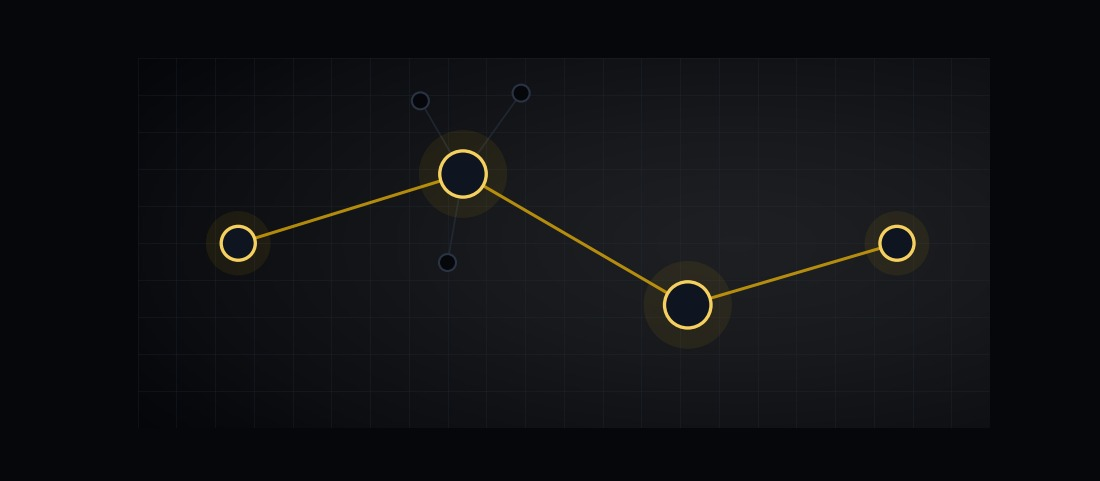
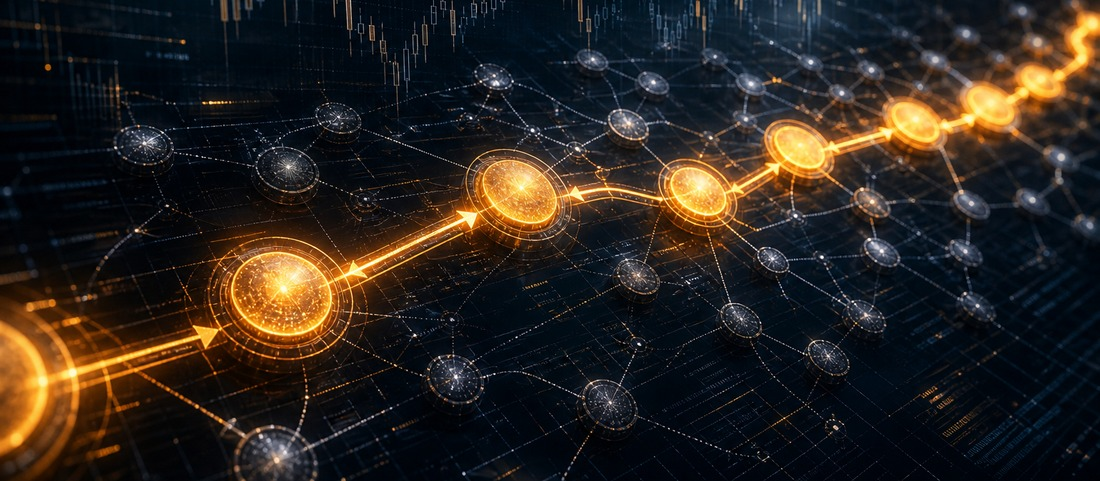
Portada AI para Strategy Lab, IDs de portafolio y pipeline explícito
La portada abstracta de matplotlib del banner de Strategy Lab se
reemplaza por una imagen generada con IA (mismo estilo fotorrealista
oscuro que Research Lab y Trading Algorítmico).

En Trading: los 3 buckets de producción reciben un ID permanente
(LP-001/MP-001/RA-001) y una nota explícita de que una estrategia
candidata no entra ahí como un cuarto bucket hasta superar su propia
etapa de prueba; el dashboard en vivo (paper/IBKR) ahora es lo primero
que se lee en la página, antes de la explicación metodológica.

En Strategy Lab: se agrega "Cómo se mueve una estrategia"
(Research → Strategy candidate → Paper Lab → Production), dejando
explícito que la etapa de Paper Lab con carteras virtuales
independientes todavía no existe como infraestructura — en vez de
inventar cifras para llenarla, se señala que lo más cercano hoy es la
validación forward estadística de EXP-005.

Claude-Session: https://claude.ai/code/session_01SmZr8GFLdhzCev7E9nHHwd

diff --git a/app/pulso-mercado/trading/page.js b/app/pulso-mercado/trading/page.js
@@ -37,47 +37,21 @@ function BloqueExplicativo({ resumen }) {
         </div>
 
         <div className="trading-intro-card">
-          <span className="trading-intro-kicker">Cómo se construyó</span>
-          <h2>37 decisiones de diseño, ninguna de un día para otro</h2>
-          <p>
-            El diseño actual no salió completo desde el día uno — cada cambio se probó contra el
-            motor completo antes de adoptarse. Los hitos de mayor impacto:
-          </p>
-          <ul className="trading-timeline trading-timeline-resumen">
-            <li className="trading-timeline-item">
-              <span className="trading-timeline-tag">v2</span>
-              <strong>Trailing stop + cash invertido en el índice</strong> — el cambio de mayor
-              impacto medido en todo el proyecto: el retorno pasó de +0.23% a +17.75% en 22 meses.
-            </li>
-            <li className="trading-timeline-item">
-              <span className="trading-timeline-tag">v5–v6</span>
-              <strong>Mean Reversion RSI(2) llegó a operar con capital real y se revirtió</strong>{" "}
-              — no sostuvo una validación walk-forward más rigurosa (Sharpe OOS -0.032); se
-              eliminó el bucket y se restauró el split original de 3 portafolios.
-            </li>
-            <li className="trading-timeline-item">
-              <span className="trading-timeline-tag">v13</span>
-              <strong>Filtro de cross-sectional momentum en Largo Plazo</strong> — de 10 hipótesis
-              de investigación probadas con walk-forward, una se implementó en producción: Sharpe
-              OOS 1.33→2.25, retorno 8.91%→19.14%, 0 de 5 ventanas con pérdida.
-            </li>
-          </ul>
-          <Link href="/pulso-mercado/trading/bitacora" className="trading-historia-link">
-            Ver las 37 decisiones completas en la Bitácora →
-          </Link>
-        </div>
-
-        <div className="trading-intro-card">
           <span className="trading-intro-kicker">Cómo está construido hoy</span>
-          <h2>Tres portafolios, cada uno con sus propias reglas</h2>
+          <h2>Tres portafolios de producción, cada uno con ID propio</h2>
           <p>
-            El capital de referencia ({capitalTexto}) se divide en tres "buckets" independientes, cada
-            uno con su propia estrategia, universo y límites de riesgo:
+            El capital de referencia ({capitalTexto}) se divide en tres "buckets" <strong>🟢
+            EN PRODUCCIÓN</strong>, cada uno con su propia estrategia, universo y límites de
+            riesgo. Una estrategia candidata que todavía está en investigación o validación
+            (como las de <Link href="/pulso-mercado/estrategias">Strategy Lab</Link>) no entra
+            aquí como un cuarto bucket hasta que supere su propia etapa de prueba — nunca se
+            mezcla capital de producción con capital de prueba.
           </p>
           <div className="prose" style={{ overflowX: "auto", marginTop: 12 }}>
             <table>
               <thead>
                 <tr>
+                  <th>ID</th>
                   <th>Bucket</th>
                   <th>Asignación</th>
                   <th>Universo</th>
@@ -89,6 +63,7 @@ function BloqueExplicativo({ resumen }) {
               </thead>
               <tbody>
                 <tr>
+                  <td><code>LP-001</code></td>
                   <td>Largo Plazo</td>
                   <td>43.33%</td>
                   <td>26 ETFs</td>
@@ -98,6 +73,7 @@ function BloqueExplicativo({ resumen }) {
                   <td>6%</td>
                 </tr>
                 <tr>
+                  <td><code>MP-001</code></td>
                   <td>Mediano Plazo</td>
                   <td>33.33%</td>
                   <td>74 símbolos</td>
@@ -107,6 +83,7 @@ function BloqueExplicativo({ resumen }) {
                   <td>10%</td>
                 </tr>
                 <tr>
+                  <td><code>RA-001</code></td>
                   <td>Riesgo Alto</td>
                   <td>23.33%</td>
                   <td>45 símbolos</td>
@@ -118,6 +95,21 @@ function BloqueExplicativo({ resumen }) {
               </tbody>
             </table>
           </div>
+        </div>
+
+        <div className="trading-intro-card">
+          <span className="trading-intro-kicker">Cómo se construyó</span>
+          <h2>37 decisiones de diseño, ninguna de un día para otro</h2>
+          <p>
+            El diseño actual no salió completo desde el día uno — cada cambio se probó contra el
+            motor completo antes de adoptarse, incluyendo el cambio de mayor impacto medido en
+            todo el proyecto (trailing stop + cash invertido en el índice: +0.23% → +17.75% en 22
+            meses) y un bucket que llegó a operar con capital real y se revirtió después (Mean
+            Reversion RSI(2), ver abajo).
+          </p>
+          <Link href="/pulso-mercado/trading/bitacora" className="trading-historia-link">
+            Ver las 37 decisiones completas en la Bitácora →
+          </Link>
         </div>
 
         <div className="trading-intro-card">
@@ -185,9 +177,12 @@ export default function TradingPublicoPage() {
           </p>
         </header>
 
-        <BloqueExplicativo resumen={data.resumen} />
-
         <div className="trading-disclaimer">{TRADING_DISCLAIMER}</div>
+
+        <div className="activo-bloque" style={{ marginTop: 0 }}>
+          <h2>¿Cómo está funcionando el sistema?</h2>
+          <TradingPublicoExplorer data={data} dataIbkr={dataIbkr} />
+        </div>
 
         <nav className="trading-subnav">
           <Link href="/pulso-mercado/trading/investigacion">Investigación →</Link>
@@ -195,7 +190,7 @@ export default function TradingPublicoPage() {
           <Link href="/pulso-mercado/estrategias">Strategy Lab →</Link>
         </nav>
 
-        <TradingPublicoExplorer data={data} dataIbkr={dataIbkr} />
+        <BloqueExplicativo resumen={data.resumen} />
       </div>
     </section>
   );

diff --git a/app/pulso-mercado/estrategias/page.js b/app/pulso-mercado/estrategias/page.js
@@ -57,6 +57,47 @@ export default function StrategyLabPage() {
         </p>
 
         <div className="activo-bloque">
+          <h2>Cómo se mueve una estrategia</h2>
+          <p className="activo-descripcion">
+            Cuatro etapas, no tres portafolios. Ninguna estrategia salta directo de un hallazgo de
+            investigación a capital de producción — y hoy la mayoría de las candidatas de este
+            catálogo están apenas en la primera etapa:
+          </p>
+          <div className="strategy-pipeline">
+            <div className="strategy-pipeline-paso">
+              <span className="strategy-pipeline-emoji">🔵</span>
+              <strong>Research</strong>
+              <span>Un experimento de <Link href="/pulso-mercado/research">Research Lab</Link> encuentra (o descarta) una señal.</span>
+            </div>
+            <span className="strategy-pipeline-flecha">→</span>
+            <div className="strategy-pipeline-paso">
+              <span className="strategy-pipeline-emoji">🟡</span>
+              <strong>Strategy candidate</strong>
+              <span>El hallazgo se formaliza como una regla de entrada/salida concreta, todavía sin capital.</span>
+            </div>
+            <span className="strategy-pipeline-flecha">→</span>
+            <div className="strategy-pipeline-paso strategy-pipeline-paso--pendiente">
+              <span className="strategy-pipeline-emoji">⚪</span>
+              <strong>Paper Lab</strong>
+              <span>Cartera virtual independiente, con su propio capital, benchmark y métricas — todavía no existe como infraestructura separada.</span>
+            </div>
+            <span className="strategy-pipeline-flecha">→</span>
+            <div className="strategy-pipeline-paso">
+              <span className="strategy-pipeline-emoji">🟢</span>
+              <strong>Production</strong>
+              <span>Capital real de <Link href="/pulso-mercado/trading">Trading Algorítmico</Link> (LP-001 / MP-001 / RA-001).</span>
+            </div>
+          </div>
+          <p className="activo-descripcion" style={{ marginTop: 14 }}>
+            Hoy no existe un "Paper Lab" separado con carteras virtuales independientes por
+            candidata — construirlo con datos inventados sería peor que no tenerlo. Lo más
+            parecido que existe ahora es la validación forward de EXP-005 (ver su reporte): un
+            recheck estadístico automático sobre el bucket congelado, no una cartera con capital
+            propio. Esta sección se actualizará en cuanto esa infraestructura exista de verdad.
+          </p>
+        </div>
+
+        <div className="activo-bloque">
           <h2>En producción</h2>
           <p className="activo-descripcion">
             Las {produccion.length} estrategias que hoy deciden las operaciones reales (paper

diff --git a/app/globals.css b/app/globals.css
@@ -4699,6 +4699,21 @@ html:not(.dark) .pglobe-land {
   color: var(--text-secondary);
 }
 
+.strategy-pipeline { display: flex; flex-direction: column; gap: 8px; margin: 16px 0; }
+.strategy-pipeline-paso {
+  display: flex;
+  flex-direction: column;
+  gap: 4px;
+  padding: 12px 14px;
+  border: 1px solid var(--border);
+  border-radius: var(--radius);
+}
+.strategy-pipeline-paso strong { font-size: 0.92rem; }
+.strategy-pipeline-paso span:last-child { font-size: 0.85rem; color: var(--text-secondary); line-height: 1.5; }
+.strategy-pipeline-paso--pendiente { border-style: dashed; opacity: 0.75; }
+.strategy-pipeline-emoji { font-size: 1.1rem; }
+.strategy-pipeline-flecha { align-self: center; color: var(--text-dim); font-size: 1.1rem; }
+
 /* ---------- Trading Algorítmico ---------- */
 
 .trading-algo-banner {
